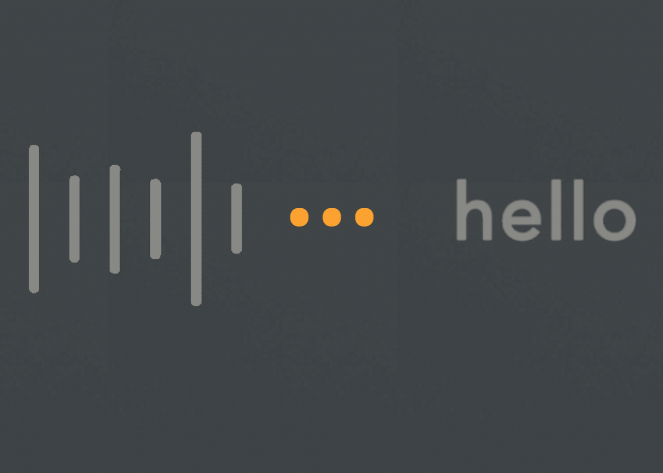
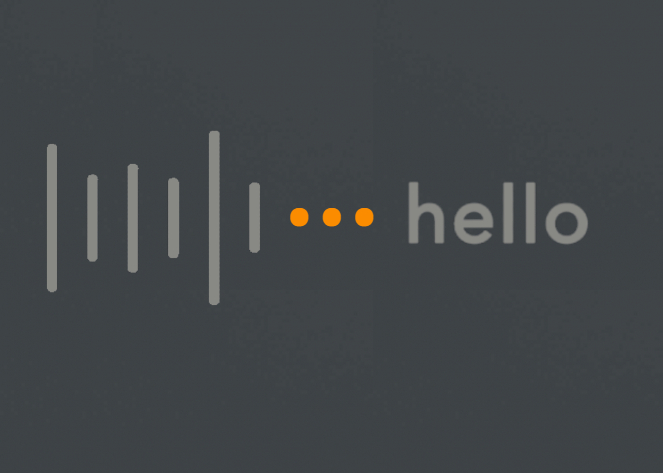
fix imgs

Changed region(s): [[0.0302, 0.2664, 0.3922, 0.6512], [0.6033, 0.3848, 0.9653, 0.5328], [0.4223, 0.444, 0.5732, 0.4736]]

diff --git a/src/components/Cuerpo/Proyecto/Proyecto.js b/src/components/Cuerpo/Proyecto/Proyecto.js
@@ -50,7 +50,7 @@ const Imagen = styled.div`
     flex: 1 0 100%;
     text-align: center;
     .imagen {
-      width: 70%;
+      width: 85%;
       height: auto;
       object-fit: cover;
     }
@@ -137,7 +137,7 @@ export default function Proyecto(props) {
           </ul>
         </Content>
         <Imagen>
-          <a href={'/img' + proyect.portada} target="_blank">
+          <a rel="noreferrer" href={'/img' + proyect.portada} target="_blank">
             <img className="imagen" alt={proyect.titulo} src={'/img' + proyect.portada}></img>
           </a>
         </Imagen>
